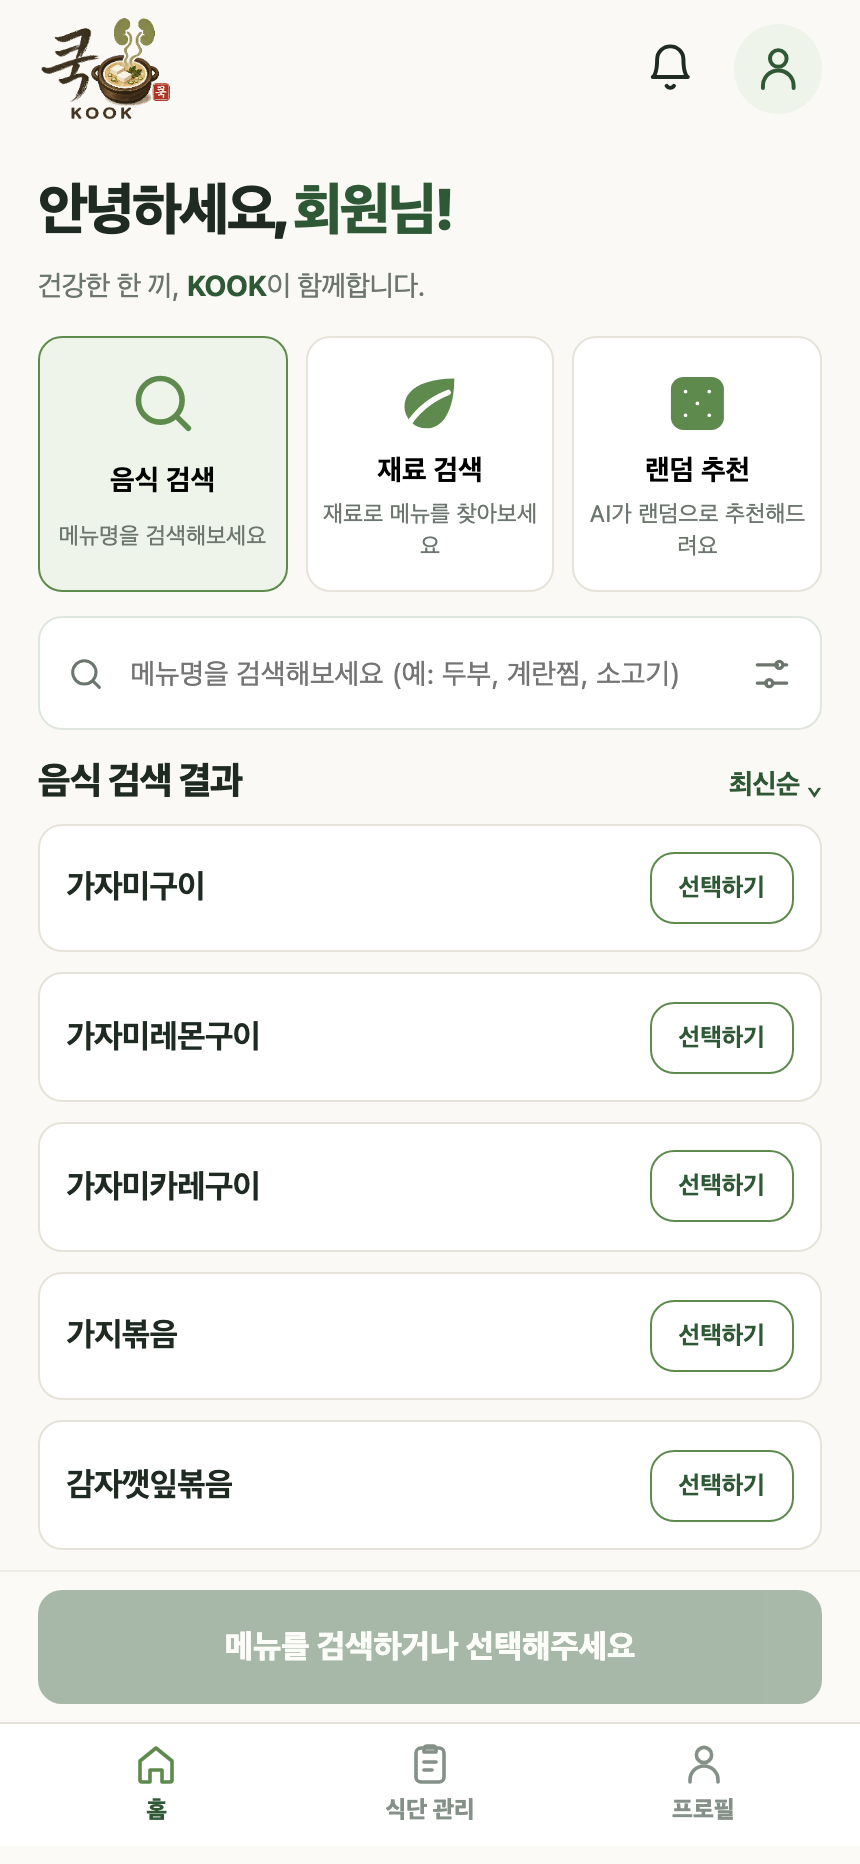
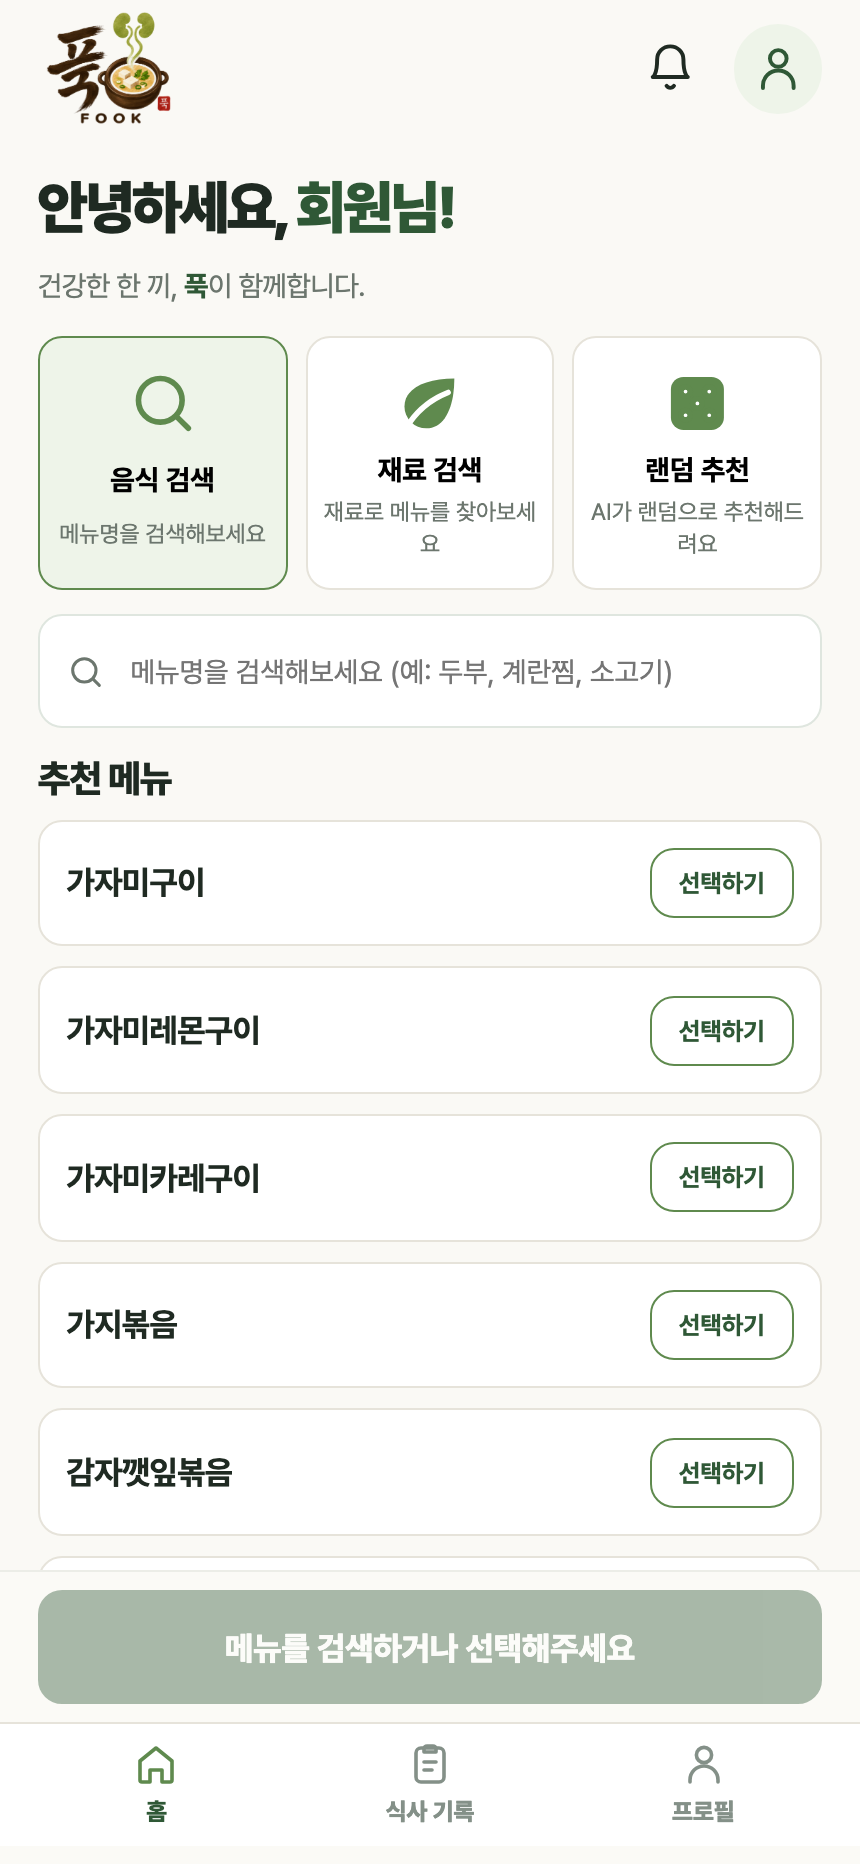
chore: K-디지털 공모전용 임시 브랜딩 KOOK -> 푹(FOOK)
- 화면에 노출되는 텍스트 13곳(9개 파일): 로그인/홈 태그라인, 로딩 문구,
  'MY KOOK'->'MY 푹', PDF 파일명·헤더, 브라우저 탭 제목, 접근성 라벨,
  온보딩 카피(기존 '고민에 푹 빠질 땐, KOOK(쿡)이...' 문장은 '푹이
  도와드립니다'로 자연스럽게 정리)
- 로고 이미지(kook-logo.png)를 새 아트웍으로 교체 — 실제 표시 크기(<=230px)에
  맞춰 리사이즈해서 기존보다 가벼움(515KB -> 426KB), 파일명은 그대로 유지해
  코드 변경 없이 반영됨
- 온보딩 사진 6장(onboarding-home, onboarding-1~5)을 새 브랜딩으로 교체.
  home은 제공받은 새 아트웍을 기존과 동일 해상도로 리사이즈, 1~5는 실제
  백엔드를 깨워 Playwright로 앱을 직접 조작해 진짜 AI 생성 데이터로
  재촬영(예시 데이터 아님, 기존 파일과 동일 해상도 860x1864)
- 코드에서 참조하는 파일 경로는 전부 그대로라 되돌릴 땐 이 커밋만
  revert하면 됨

diff --git a/frontend/src/pages/onboarding/OnboardingPage.tsx b/frontend/src/pages/onboarding/OnboardingPage.tsx
@@ -70,7 +70,7 @@ function Splash({ onStart }: { onStart: () => void }) {
           {!shotFailed ? (
             <img
               src="/assets/onboarding-home.png"
-              alt="오늘 뭐 해 먹지? 고민에 푹 빠질 땐 KOOK이 도와드립니다"
+              alt="오늘 뭐 해 먹지? 고민에 푹 빠질 땐 푹이 도와드립니다"
               onError={() => setShotFailed(true)}
             />
           ) : (
@@ -78,7 +78,7 @@ function Splash({ onStart }: { onStart: () => void }) {
               <Logo className="splash-logo" />
               <h1 className="splash-title">오늘 뭐 먹지?</h1>
               <p className="splash-sub">
-                고민에 <b>푹</b> 빠질 땐, <b>KOOK(쿡)</b>이 도와드립니다
+                고민에 <b>푹</b> 빠질 땐, <b>푹</b>이 도와드립니다
               </p>
               <div className="thought-bubble">
                 {[
@@ -174,7 +174,7 @@ function OnboardingVisual({ type }: { type: string }) {
   if (type === "nutrition")
     return (
       <div className="visual-card preview-card">
-        <NutrientIconRow caption="KOOK AI가 영양 기준 적합 여부를 판정합니다." />
+        <NutrientIconRow caption="푹 AI가 영양 기준 적합 여부를 판정합니다." />
         <Nutrients
           values={{
             energy: 620,
@@ -205,7 +205,7 @@ function OnboardingVisual({ type }: { type: string }) {
           </span>
           <b>레시피 재구성 중입니다</b>
           <small>
-            KOOK AI가 영양 밸런스를 맞추고 있어요...
+            푹 AI가 영양 밸런스를 맞추고 있어요...
             <br />
             잠시만 기다려주세요
           </small>

diff --git a/frontend/src/pages/account/LibraryPage.tsx b/frontend/src/pages/account/LibraryPage.tsx
@@ -144,7 +144,7 @@ function SavedCard({
   const mainText = isHistoryCombo ? item.menus!.join(" · ") : item.title;
   return (
     <article>
-      <div className="saved-thumb">{mode === "documents" ? "PDF" : "KOOK"}</div>
+      <div className="saved-thumb">{mode === "documents" ? "PDF" : "푹"}</div>
       <button className="saved-main" onClick={() => onOpen(item)}>
         <b>{mainText}</b>
         {!isHistoryCombo && <span>{item.subtitle}</span>}
@@ -275,7 +275,7 @@ export function LibraryPage({
       footer={<BottomNav active={mode === "history" ? "history" : "account"} />}
     >
       <BackHeader title={meta[0]} />
-      <p className="eyebrow">MY KOOK</p>
+      <p className="eyebrow">MY 푹</p>
       <h1>{meta[0]}</h1>
       <p className="sub">{meta[1]}</p>
 

diff --git a/frontend/src/pages/meal/HomePage.tsx b/frontend/src/pages/meal/HomePage.tsx
@@ -100,7 +100,7 @@ export function HomePage() {
         안녕하세요, <b>{user?.name || "회원"}님!</b>
       </h1>
       <p className="sub">
-        건강한 한 끼, <b className="brand-word">KOOK</b>이 함께합니다.
+        건강한 한 끼, <b className="brand-word">푹</b>이 함께합니다.
       </p>
 
       <div className="quick-cards">
@@ -284,7 +284,7 @@ export function HomePage() {
             <p>
               먹고 싶은 음식을 고르지 않아도
               <br />
-              KOOK AI가 영양 기준에 맞는 한 끼를 만들어드려요.
+              푹 AI가 영양 기준에 맞는 한 끼를 만들어드려요.
             </p>
             <div className="ask-actions">
               <button

diff --git a/frontend/src/pages/recipe/PdfPreviewPage.tsx b/frontend/src/pages/recipe/PdfPreviewPage.tsx
@@ -96,7 +96,7 @@ export function PdfPreviewPage() {
         w,
         h,
       );
-      pdf.save(`KOOK_${plan.menus[1]}_맞춤한끼.pdf`);
+      pdf.save(`푹_${plan.menus[1]}_맞춤한끼.pdf`);
       if (currentUser())
         await saveEverywhere("fook:documents", {
           id: `pdf-${Date.now()}`,
@@ -132,7 +132,7 @@ export function PdfPreviewPage() {
         <div className="pdf-brand">
           <Logo />
           <div>
-            <b>KOOK 맞춤 한 끼 레시피</b>
+            <b>푹 맞춤 한 끼 레시피</b>
             <span>혈액투석 환자용 식단 참고 자료</span>
           </div>
         </div>

diff --git a/frontend/src/components/layout/BackHeader.tsx b/frontend/src/components/layout/BackHeader.tsx
@@ -25,7 +25,7 @@ export function BackHeader({
         {/* 어느 화면에 있어도 브랜드가 보이도록 왼쪽 위에 로고를 둔다. 누르면 홈으로. */}
         <button
           className="header-brand"
-          aria-label="KOOK 홈으로"
+          aria-label="푹 홈으로"
           onClick={() => nav("/home")}
         >
           <Logo />

diff --git a/frontend/index.html b/frontend/index.html
@@ -5,7 +5,7 @@
   <meta name="viewport" content="width=device-width, initial-scale=1.0, viewport-fit=cover" />
   <meta name="theme-color" content="#2c5433" />
   <link rel="icon" href="/assets/kook-logo.png" />
-  <title>KOOK — 투석환자 맞춤 한 끼</title>
+  <title>푹 — 투석환자 맞춤 한 끼</title>
 </head>
 <body>
   <div id="root"></div>

diff --git a/frontend/src/pages/meal/AdjustingPage.tsx b/frontend/src/pages/meal/AdjustingPage.tsx
@@ -103,7 +103,7 @@ export function AdjustingPage() {
         </span>
         <b>레시피 재구성 중입니다</b>
         <small>
-          KOOK AI가 영양 밸런스를 맞추고 있어요...
+          푹 AI가 영양 밸런스를 맞추고 있어요...
           <br />
           잠시만 기다려주세요
         </small>

diff --git a/frontend/src/components/Logo.tsx b/frontend/src/components/Logo.tsx
@@ -5,7 +5,7 @@ export function Logo({ className = "" }: { className?: string }) {
     <img
       className={className}
       src="/assets/kook-logo.png"
-      alt="KOOK"
+      alt="푹"
       onError={(e) => {
         const img = e.currentTarget;
         if (!img.src.endsWith(".svg")) img.src = "/assets/kook-logo.svg";

diff --git a/frontend/src/pages/auth/LoginPage.tsx b/frontend/src/pages/auth/LoginPage.tsx
@@ -121,7 +121,7 @@ export function LoginPage() {
           <span />♥<span />
         </div>
         <p className="login-sub">
-          건강한 한 끼, <b>KOOK</b>이 함께합니다.
+          건강한 한 끼, <b>푹</b>이 함께합니다.
         </p>
       </div>
       <div className="form login-form">

diff --git a/frontend/src/pages/account/NutritionTargetsPage.tsx b/frontend/src/pages/account/NutritionTargetsPage.tsx
@@ -167,7 +167,7 @@ export function NutritionTargetsPage() {
       }
     >
       <BackHeader title="영양 기준 설정" />
-      <p className="eyebrow">MY KOOK</p>
+      <p className="eyebrow">MY 푹</p>
       <h1>
         의료진에게 안내받은
         <br />
